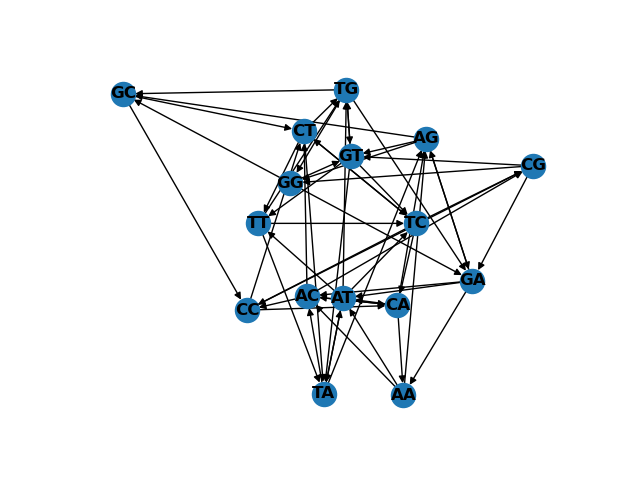
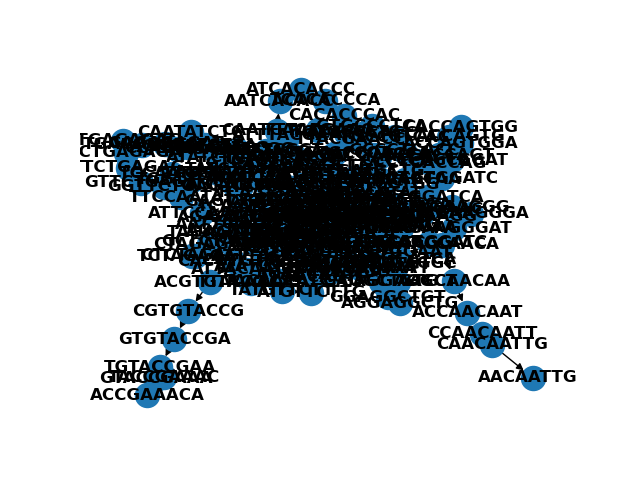
get contig + save contig

Changed region(s): [[0.125, 0.1562, 0.9062, 0.875]]

diff --git a/debruijn/debruijn.py b/debruijn/debruijn.py
@@ -84,7 +84,7 @@ def read_fastq(fastq):
     """
     with open(fastq, "r") as filin:
         for _ in filin:
-            yield next(filin)
+            yield next(filin).strip()
             next(filin)
             next(filin)
 
@@ -136,6 +136,12 @@ def build_graph(kmer_dico):
     """
     Creation of a graph of kmer.
 
+    Example:
+      k-mer ACTG see 10 times
+
+      Node ACT ------> Node CTG
+              weight=10
+
     Parameter
     ---------
     kmer_dico: dictionary
@@ -143,32 +149,157 @@ def build_graph(kmer_dico):
 
     Return
     ------
-    directed_graph: nx graph
+    graph: nx graph
         a graph
     """
-    directed_graph = nx.DiGraph()
+    graph = nx.DiGraph()
     for kmer, poids in kmer_dico.items():
-        directed_graph.add_edge(kmer[:-1], kmer[1:], weight=poids)
+        graph.add_edge(kmer[:-1], kmer[1:], weight=poids)
 
     # Affichage du graphe: a ne pas faire sur le jeu de données entier
-    # plt.subplot(111)
-    # nx.draw(directed_graph, with_labels=True, font_weight='bold')
-    # plt.savefig("graph")
-    return directed_graph
+    plt.subplot(111)
+    nx.draw(graph, with_labels=True, font_weight='bold')
+    plt.savefig("graph")
+    return graph
 
 
-def save_graph(directed_graph):
+def save_graph(graph):
     """
     Save graph in a file.
 
     Parameter
     ---------
-    directed_graph: nexgraph
+    graph: nexgraph
         a graph
     """
     plt.subplot(111)
-    nx.draw(directed_graph, with_labels=True, font_weight='bold')
+    nx.draw(graph, with_labels=True, font_weight='bold')
     plt.savefig("graph")
+
+
+def get_starting_nodes(graph):
+    """
+    Parameter
+    ---------
+    graph: nexgraph
+        a graph
+
+    Return
+    ------
+    starting_nodes: list
+        list of starting nodes
+    """
+    nodes, starting_nodes = list(graph.nodes()), []
+    for node in nodes:
+        if not list(graph.predecessors(node)):
+            starting_nodes.append(node)
+    return starting_nodes
+
+
+def get_sink_nodes(graph):
+    """
+    Parameter
+    ---------
+    graph: nexgraph
+        a graph
+
+    Return
+    ------
+    sink_nodes: list
+        list of output nodes
+    """
+    nodes, sink_nodes = list(graph.nodes()), []
+    for node in nodes:
+        if not list(graph.successors(node)):
+            sink_nodes.append(node)
+    return sink_nodes
+
+
+def get_contigs(graph, starting_nodes, sink_nodes):
+    """
+    Déterminer chaque chemin d'un graphe entre un starting & sink nodes.
+
+    Parameter
+    ---------
+    graph: nexgraph
+        a graph
+    starting_nodes: list
+        list of input nodes
+    sink_nodes: list
+        list of output nodes
+
+    Return
+    ------
+    contigs: list
+        list of tupple (contig, contig size)
+    """
+    contigs = []
+    for starting in starting_nodes:
+        for sink in sink_nodes:
+            tmp = list(nx.all_simple_paths(graph, starting, sink))
+
+            if tmp:
+                contig = tmp[0][0]
+                for i in range(1, len(tmp[0])):
+                    contig += tmp[0][i][-1]
+                contigs.append((contig, len(contig)))
+
+    return contigs
+
+
+def save_contigs(output_file, contigs):
+    """
+
+    Parameter
+    --------
+    output_file: str
+        an output file
+    contigs: list
+        list of tupple (contig, contig size)
+    """
+    with open(output_file, "w") as filout:
+        for index, element in enumerate(contigs):
+            tmp = ">contig_" + str(index) + " len=" + str(element[1]) + "\n"
+            filout.write(tmp)
+            filout.write(fill(element[0]))
+            filout.write("\n")
+
+
+def fill(text, width=80):
+    """Split text with a line return to respect fasta format"""
+    return os.linesep.join(text[i:i+width] for i in range(0, len(text), width))
+
+
+def std():
+    pass
+
+
+def path_average_weight():
+    pass
+
+
+def remove_paths():
+    pass
+
+
+def select_best_path():
+    pass
+
+
+def solve_bubble():
+    pass
+
+
+def simplify_bubbles():
+    pass
+
+
+def solve_entry_tips():
+    pass
+
+
+def solve_out_tips():
+    pass
 
 
 #==============================================================
@@ -183,8 +314,16 @@ def main():
 
     # Kmer dictionary
     kmer_dico = build_kmer_dict(args.fastq_file, args.kmer_size)
-    build_graph(kmer_dico)
 
+    # De Bruijn graph
+    graph = build_graph(kmer_dico)
+
+    # Contigs
+    contigs = get_contigs(graph,
+                          get_starting_nodes(graph), get_sink_nodes(graph))
+
+    # Save contigs
+    save_contigs(args.output_file, contigs)
 
 if __name__ == '__main__':
     main()
